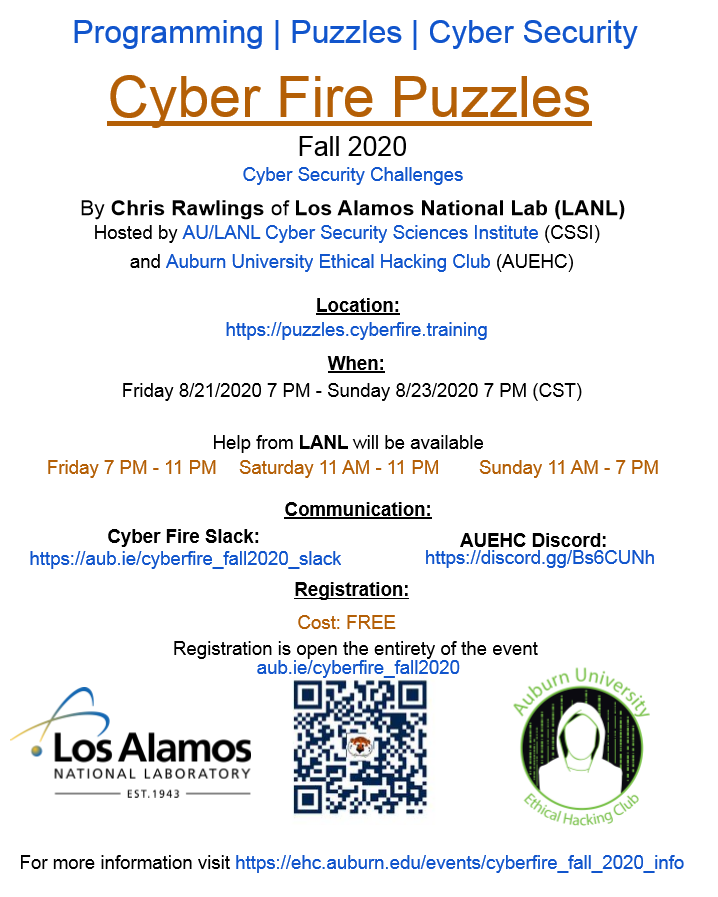
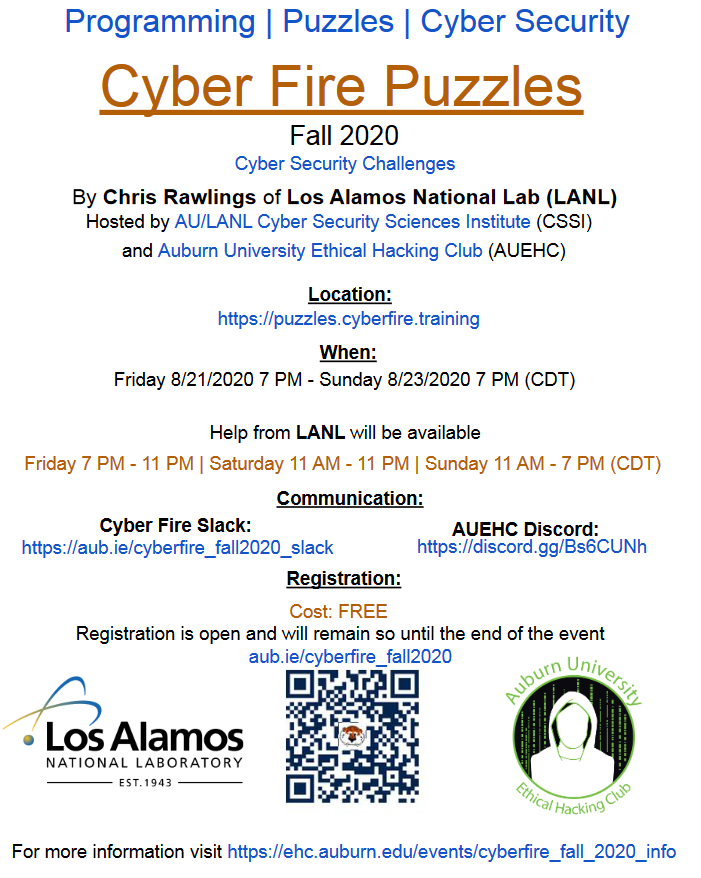
Flyer, timezones, and registration time

diff --git a/_posts/Events/2020-8-9-cyber-fire-fall-2020-info.md b/_posts/Events/2020-8-9-cyber-fire-fall-2020-info.md
@@ -18,16 +18,16 @@ Cyber Fire Puzzles offers a great opportunity to gain experience working on cybe
 The event will be completely online and will be hosted here: [Cyber Fire Puzzles Fall 2020](https://puzzles.cyberfire.training)
 
 This is multi-day event from 
-* Friday AUG 21, 2020 7 PM
+* Friday AUG 21, 2020 7 PM (CDT)
 
 through
 
-* Sunday AUG 23, 2020 7 PM
+* Sunday AUG 23, 2020 7 PM (CDT)
 
 Help will be provided by LANL employees during the following times:
-* Friday AUG 21, 2020 7 PM - 11 PM
-* Saturday AUG 22, 2020 11 AM - 11 PM
-* Sunday AUG 23, 2020 11 AM - 7 PM
+* Friday AUG 21, 2020 7 PM - 11 PM (CDT)
+* Saturday AUG 22, 2020 11 AM - 11 PM (CDT)
+* Sunday AUG 23, 2020 11 AM - 7 PM (CDT)
 
 ## Technology Requirements
 You will need your own computer as the event will be held online.
@@ -41,7 +41,7 @@ We will be using two different platforms for communication
 * [AUEHC Discord](https://discord.gg/Bs6CUNh)
 
 ## I'm interested, how do I register?
-Registration will be available for the duration of the event.
+Registration is open and will remain so until the end of the event.
 * To register for the event please visit the following website: [https://aub.ie/cyberfire_fall2020](https://aub.ie/cyberfire_fall2020)
 
 ## Flyer
